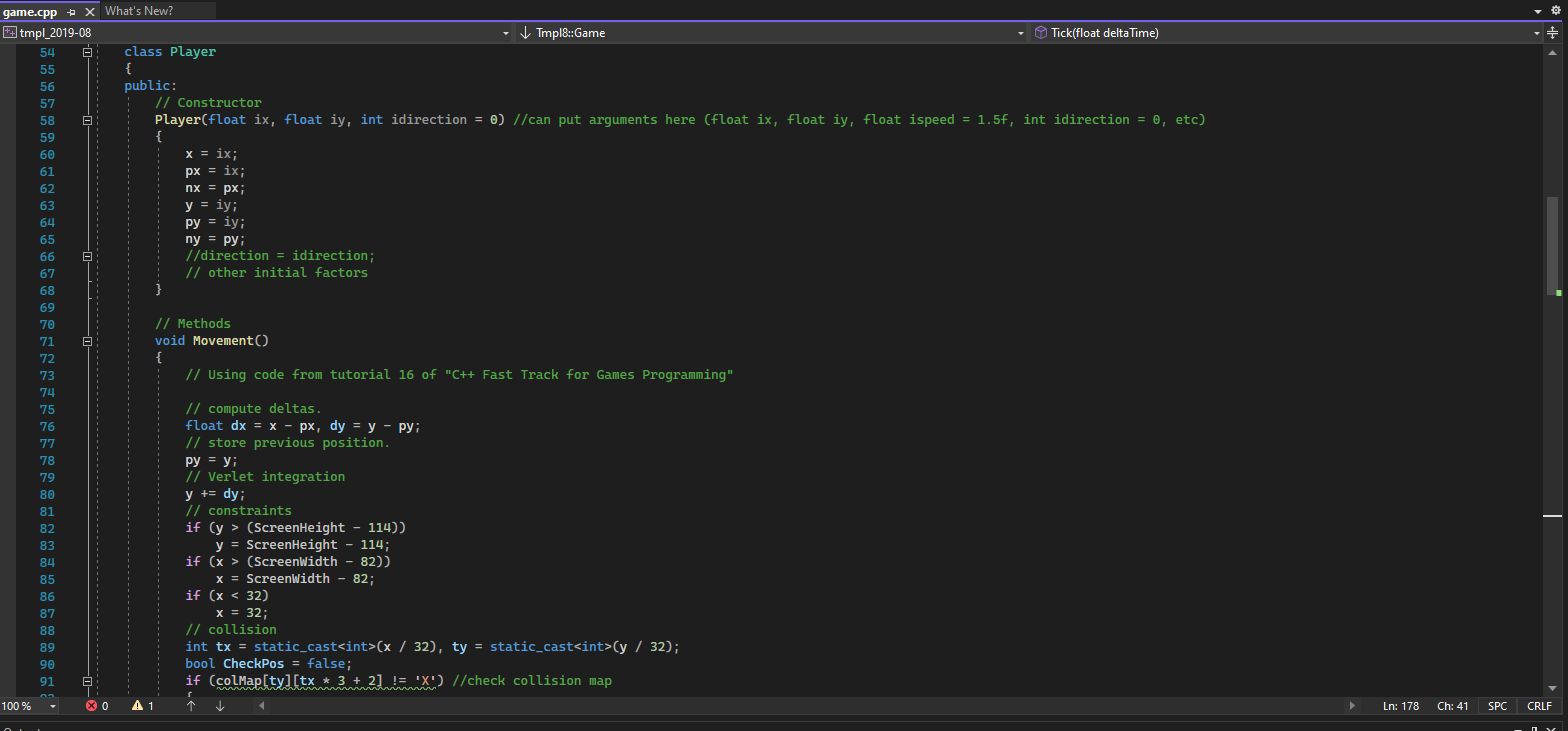
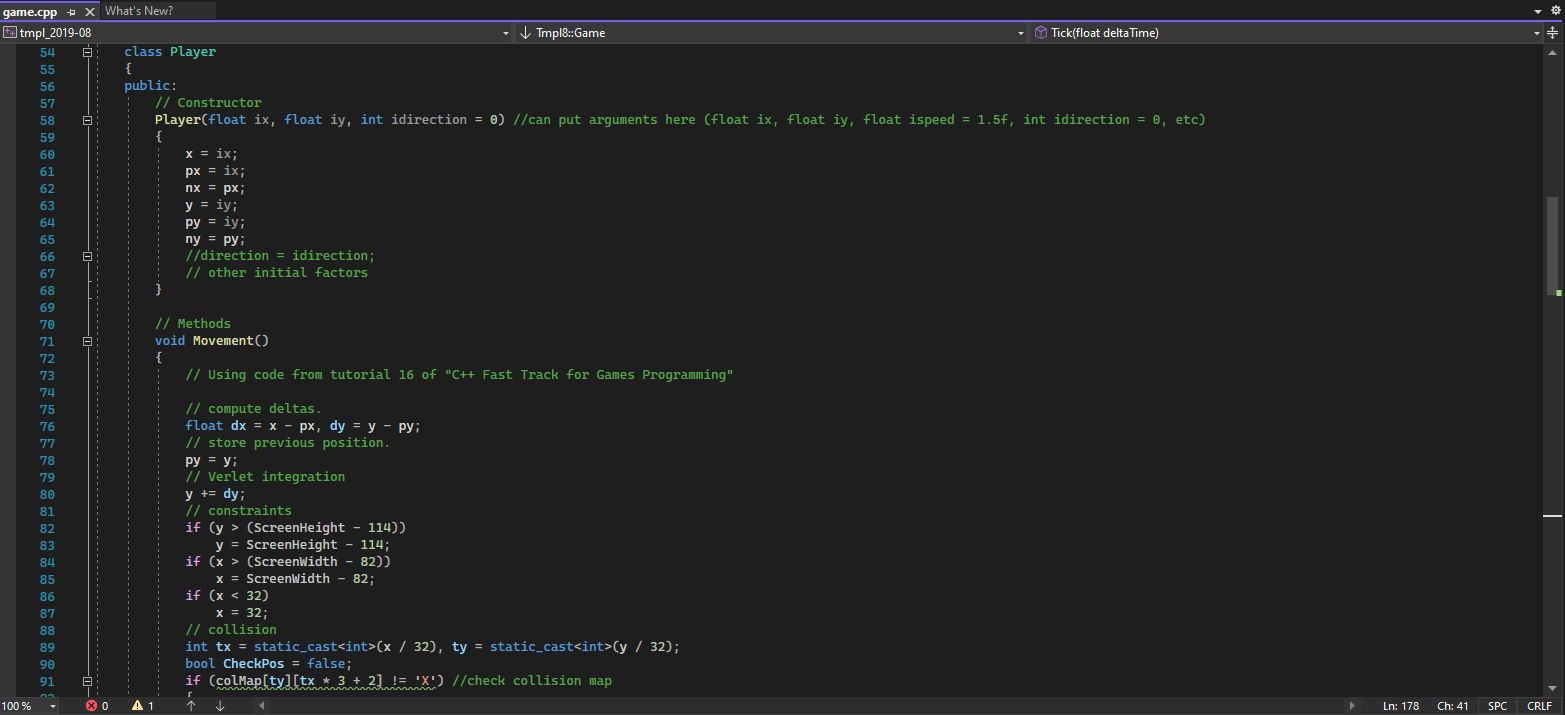
re-cropped code screenshot 1

diff --git a/index.html b/index.html
@@ -170,7 +170,7 @@
       </div>
       <div class="home-figures">
         <figure id="code-screenshot-figure">
-          <img src="./resources/game-code-screenshot2-crop.png" 
+          <img src="./resources/game-code-screenshot1-crop.png" 
                alt="Screenshot of game code" 
                id="game-code-screenshot"
                loading="lazy">
